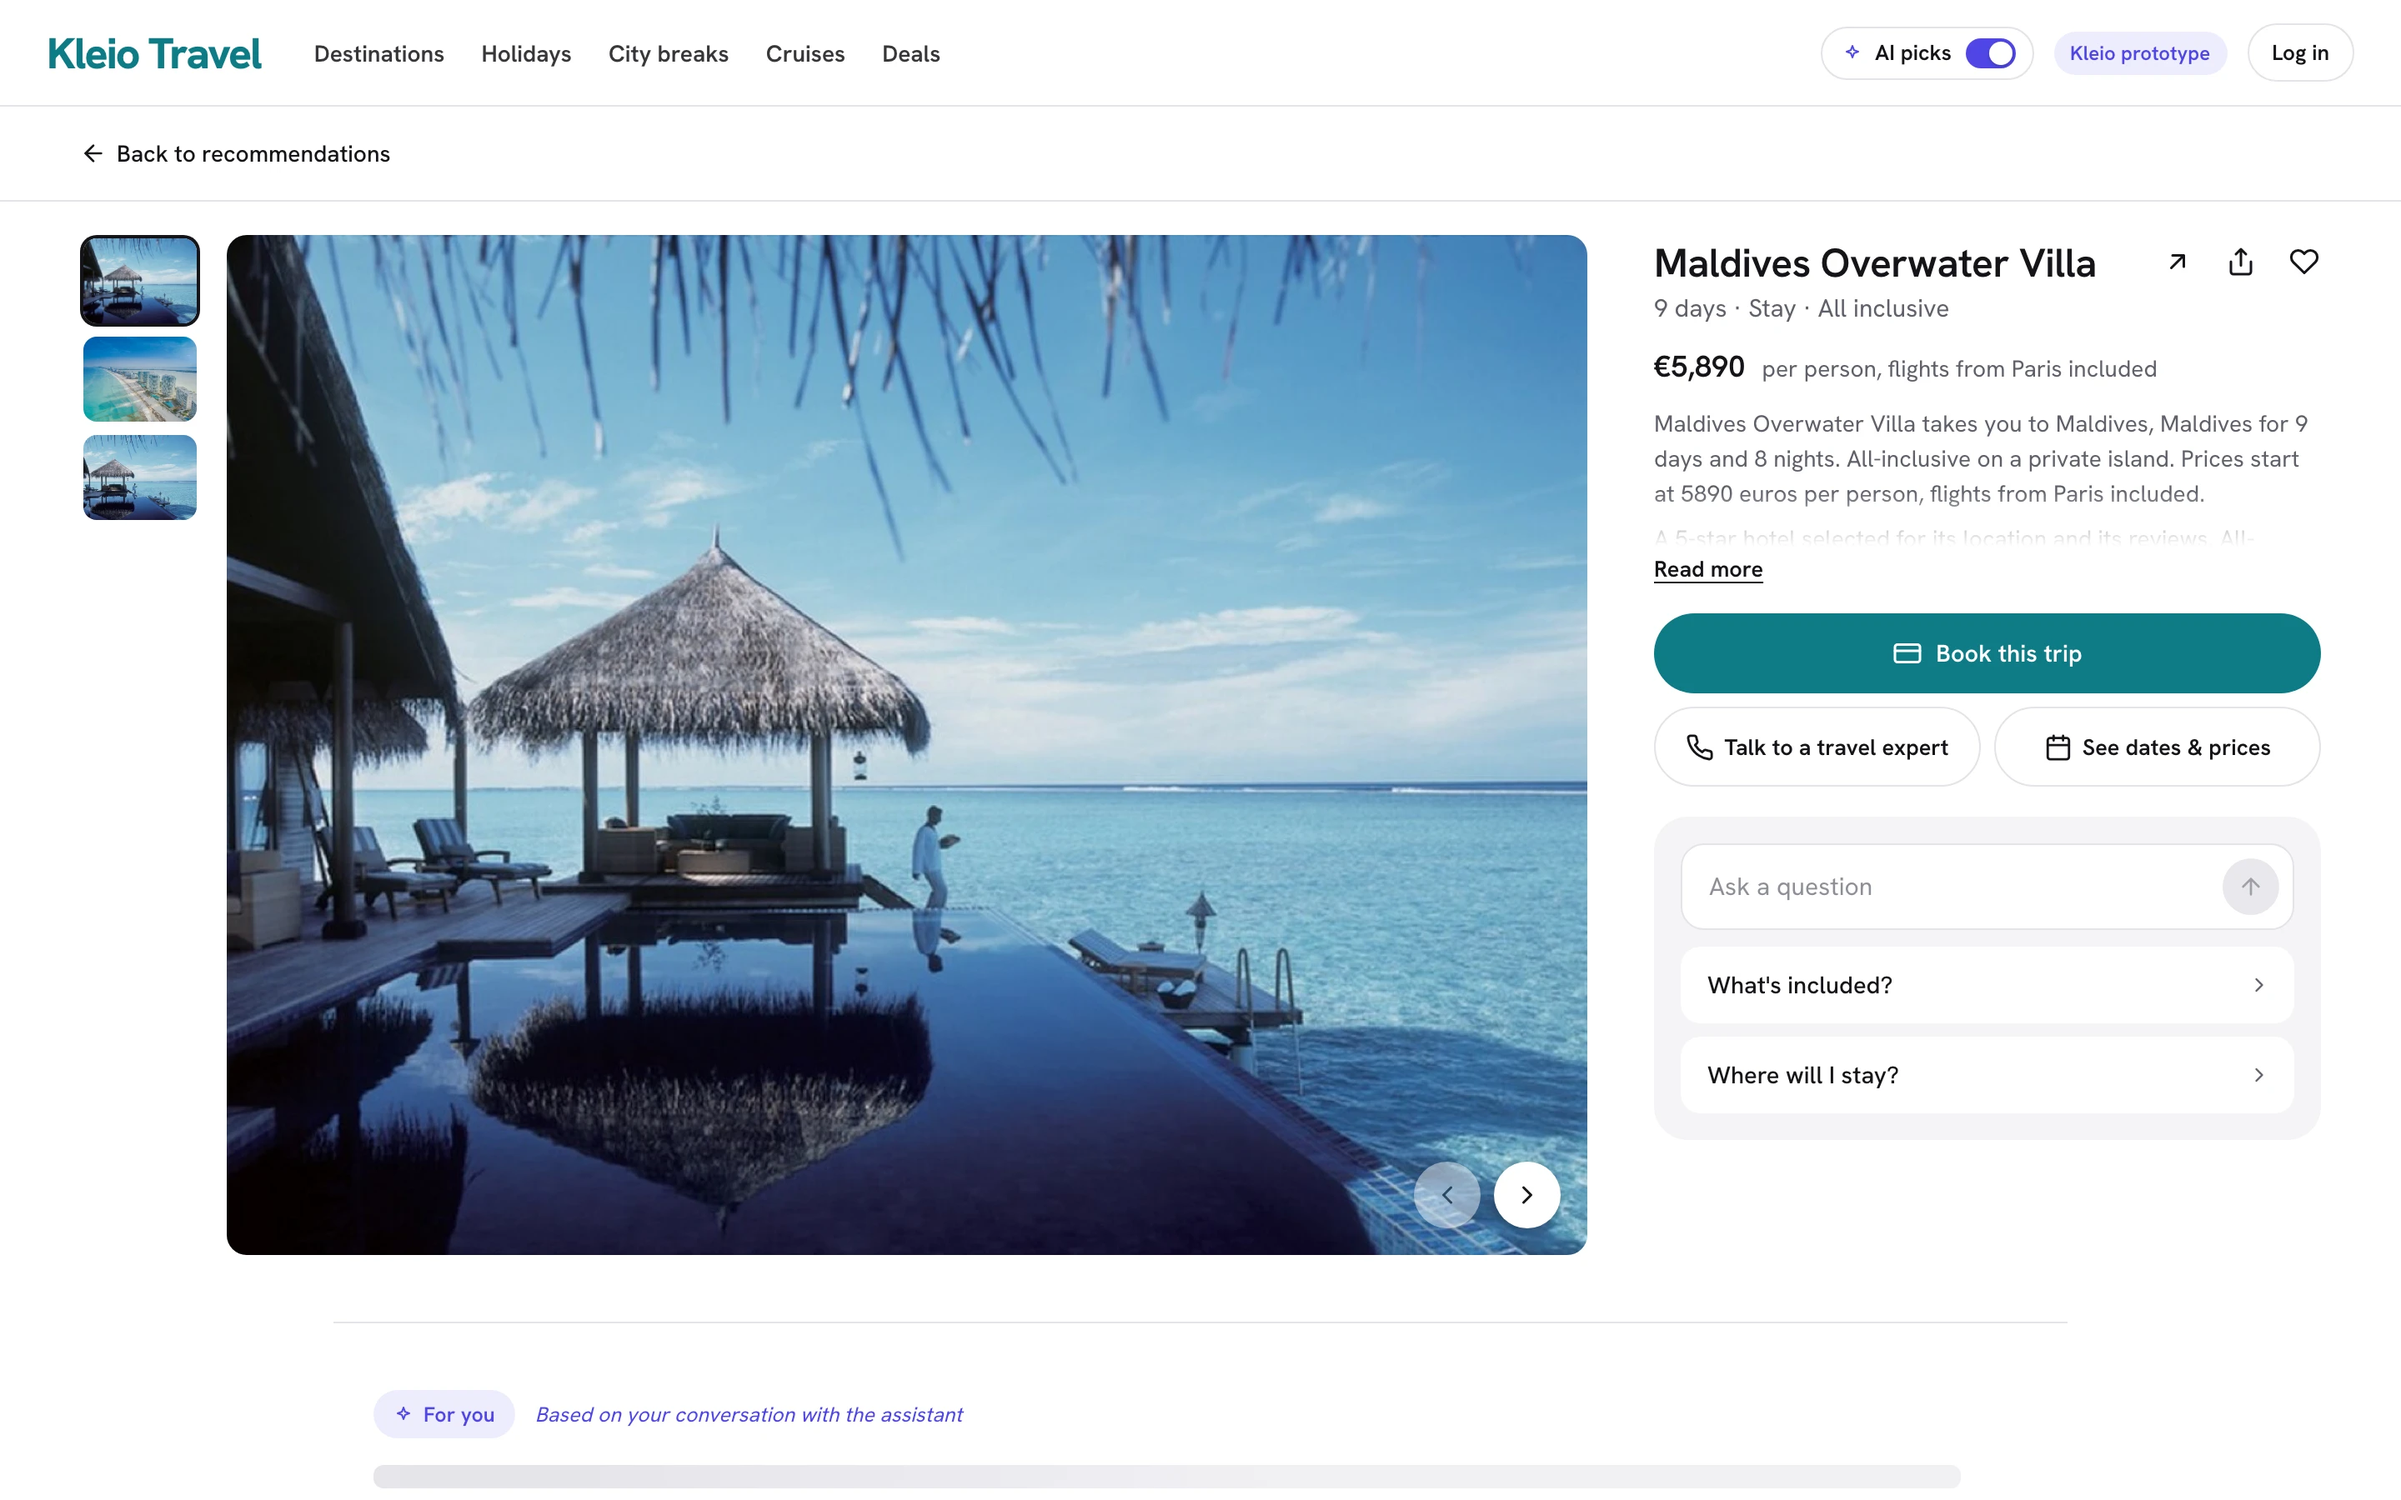
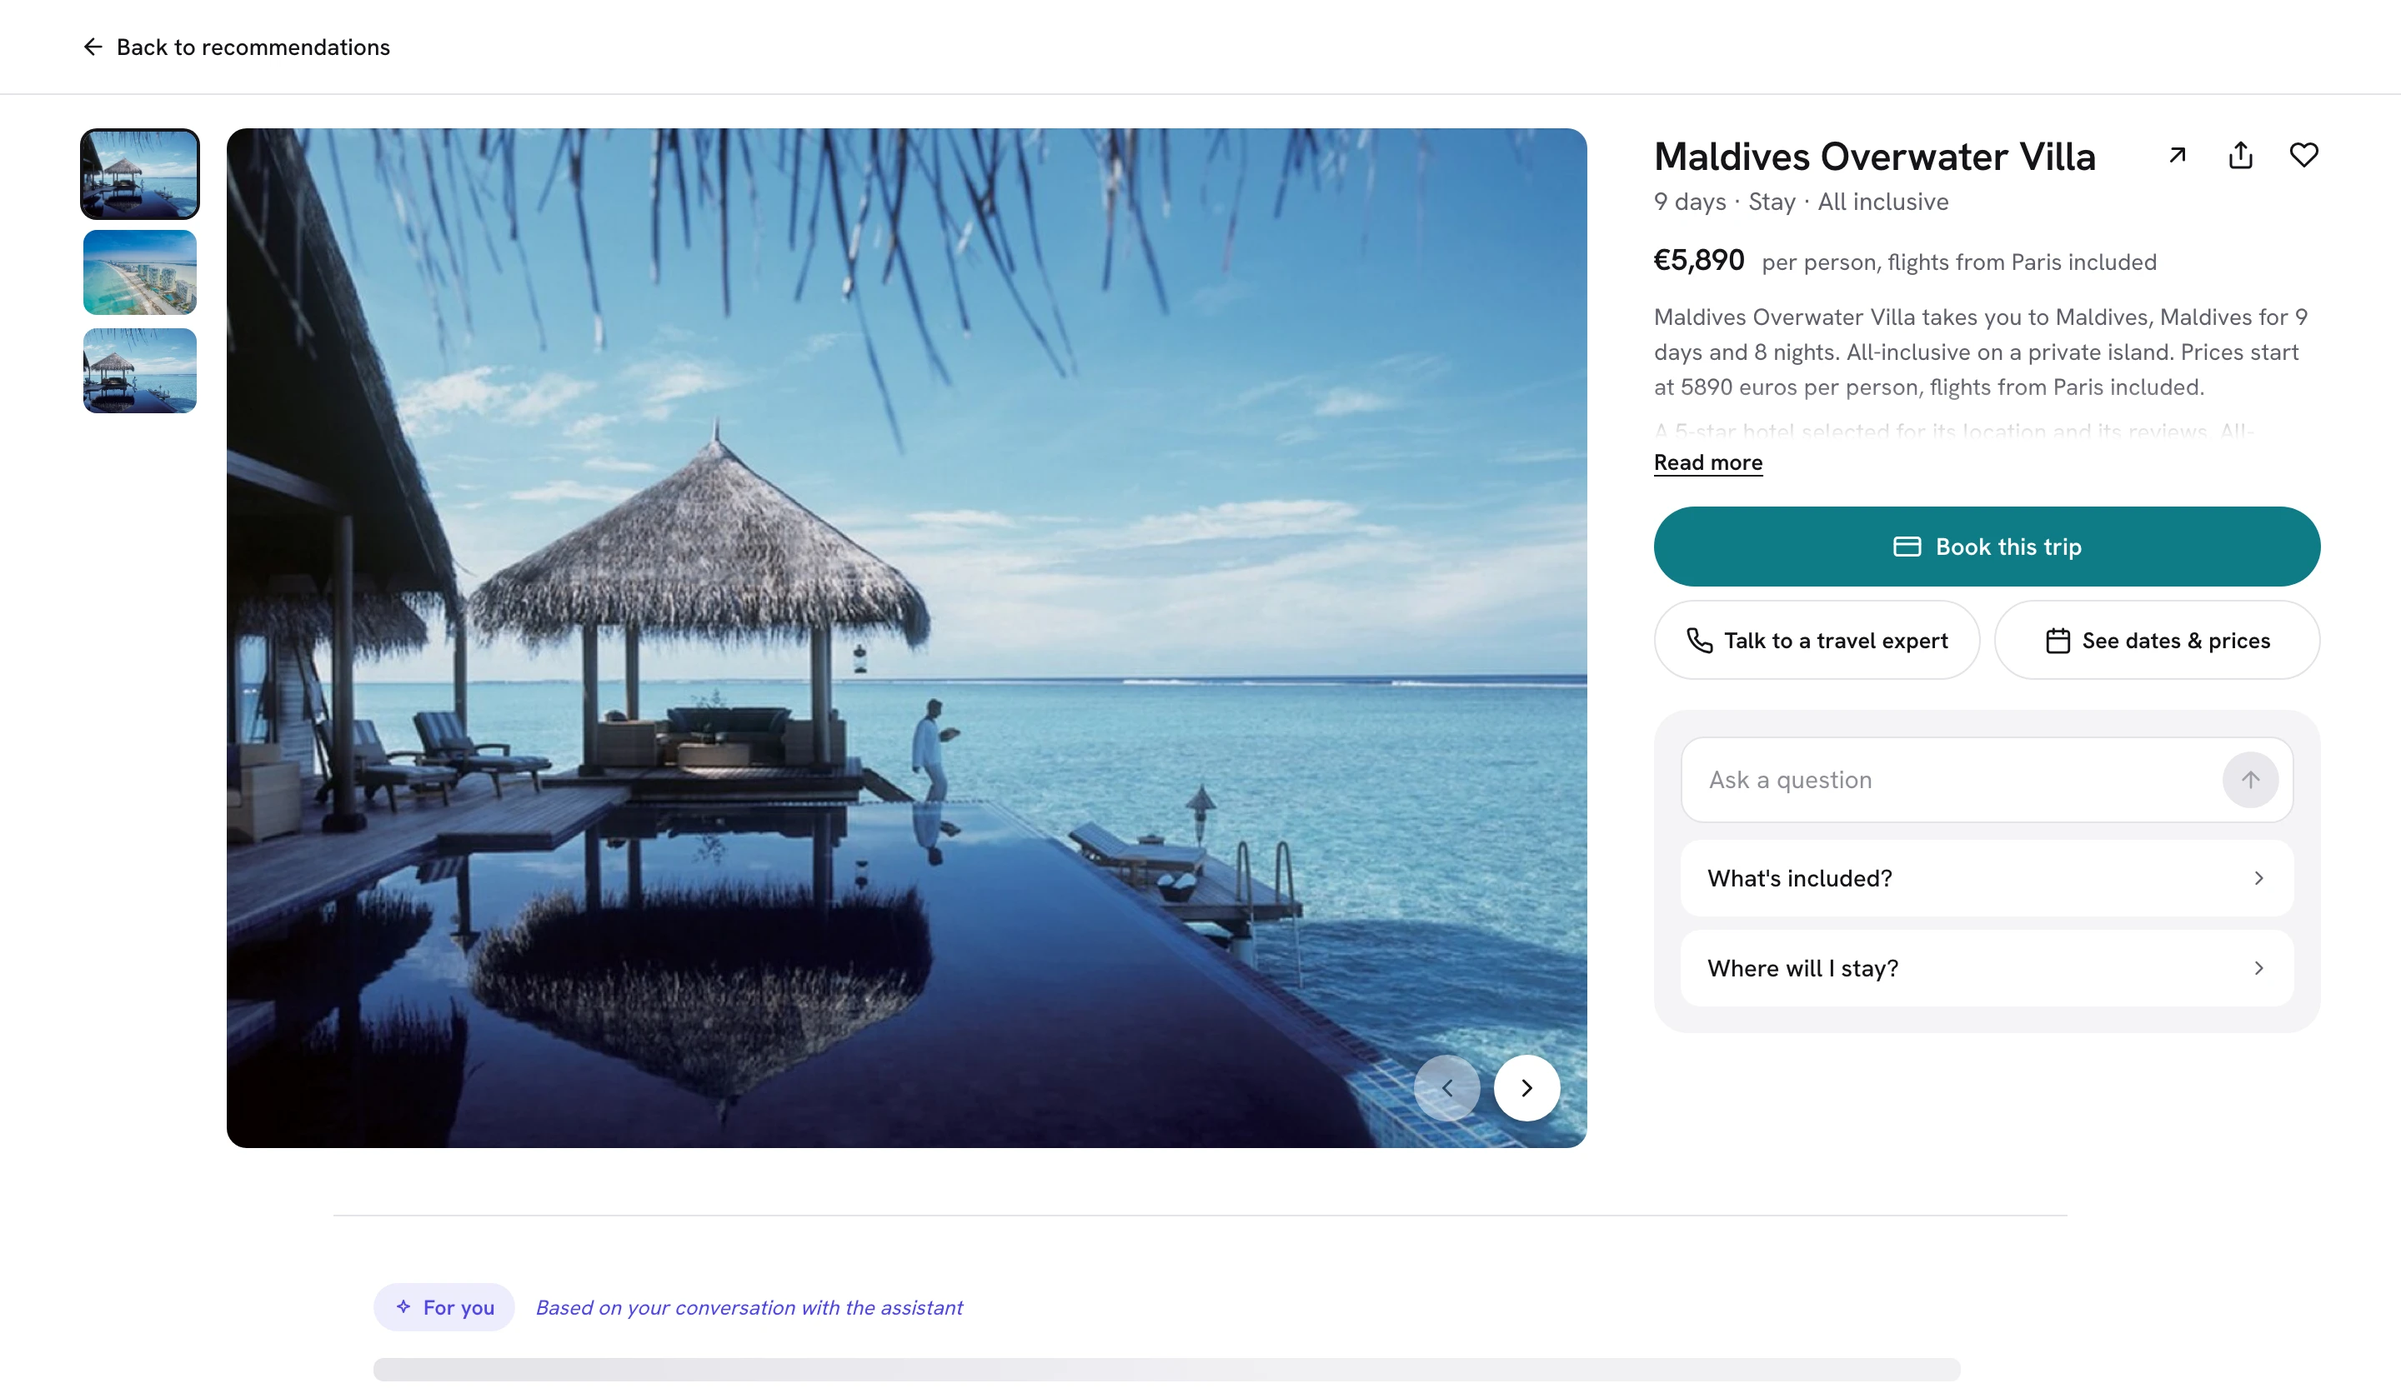
Kleio : retirer le header des captures desktop
Claude-Session: https://claude.ai/code/session_015Q4Gwq8Yw6gkf4x52Y98AM

diff --git a/lib/projects.ts b/lib/projects.ts
@@ -334,7 +334,7 @@ const kleio: Case = {
         "Kleio fournit à des sites de voyage, d'immobilier ou de e-commerce un **widget intégré à leurs pages**. Le visiteur y engage une conversation avec une IA, qui se poursuit ensuite dans l'interface de Kleio.",
         "Je suis intervenu en freelance en 2026, après une levée de fonds. Un premier designer avait fait les maquettes initiales. Ma mission était de concevoir une **V2 plus moderne et plus professionnelle**, et de prendre en charge tout le design.",
       ],
-      media: [{ ...shot("kleio/ia-desktop-resultats", "Sur ordinateur : la conversation à gauche, les offres trouvées à droite"), ratio: "16 / 10" }],
+      media: [{ ...shot("kleio/ia-desktop-resultats", "Sur ordinateur : la conversation à gauche, les offres trouvées à droite"), ratio: "2880 / 1672" }],
     },
     {
       title: "Problème et recherche",
@@ -355,8 +355,8 @@ const kleio: Case = {
         "Dès le premier message, le système identifie le type d'utilisateur. Il **adapte ensuite le ton et le contenu** des réponses de l'IA.",
       ],
       media: [
-        { ...shot("kleio/ia-desktop-recherche", "Sur ordinateur : l'assistant détaille les étapes de sa recherche pendant le chargement"), ratio: "16 / 10" },
-        { ...shot("kleio/ia-desktop-fiche", "Sur ordinateur : la fiche d'une offre, avec les questions suggérées"), ratio: "16 / 10" },
+        { ...shot("kleio/ia-desktop-recherche", "Sur ordinateur : l'assistant détaille les étapes de sa recherche pendant le chargement"), ratio: "2880 / 1672" },
+        { ...shot("kleio/ia-desktop-fiche", "Sur ordinateur : la fiche d'une offre, avec les questions suggérées"), ratio: "2880 / 1672" },
         { ...shot("kleio/ia-mobile", "Sur mobile : l'accueil de l'assistant, la recherche, les offres et la fiche"), ratio: "16 / 7" },
       ],
     },
